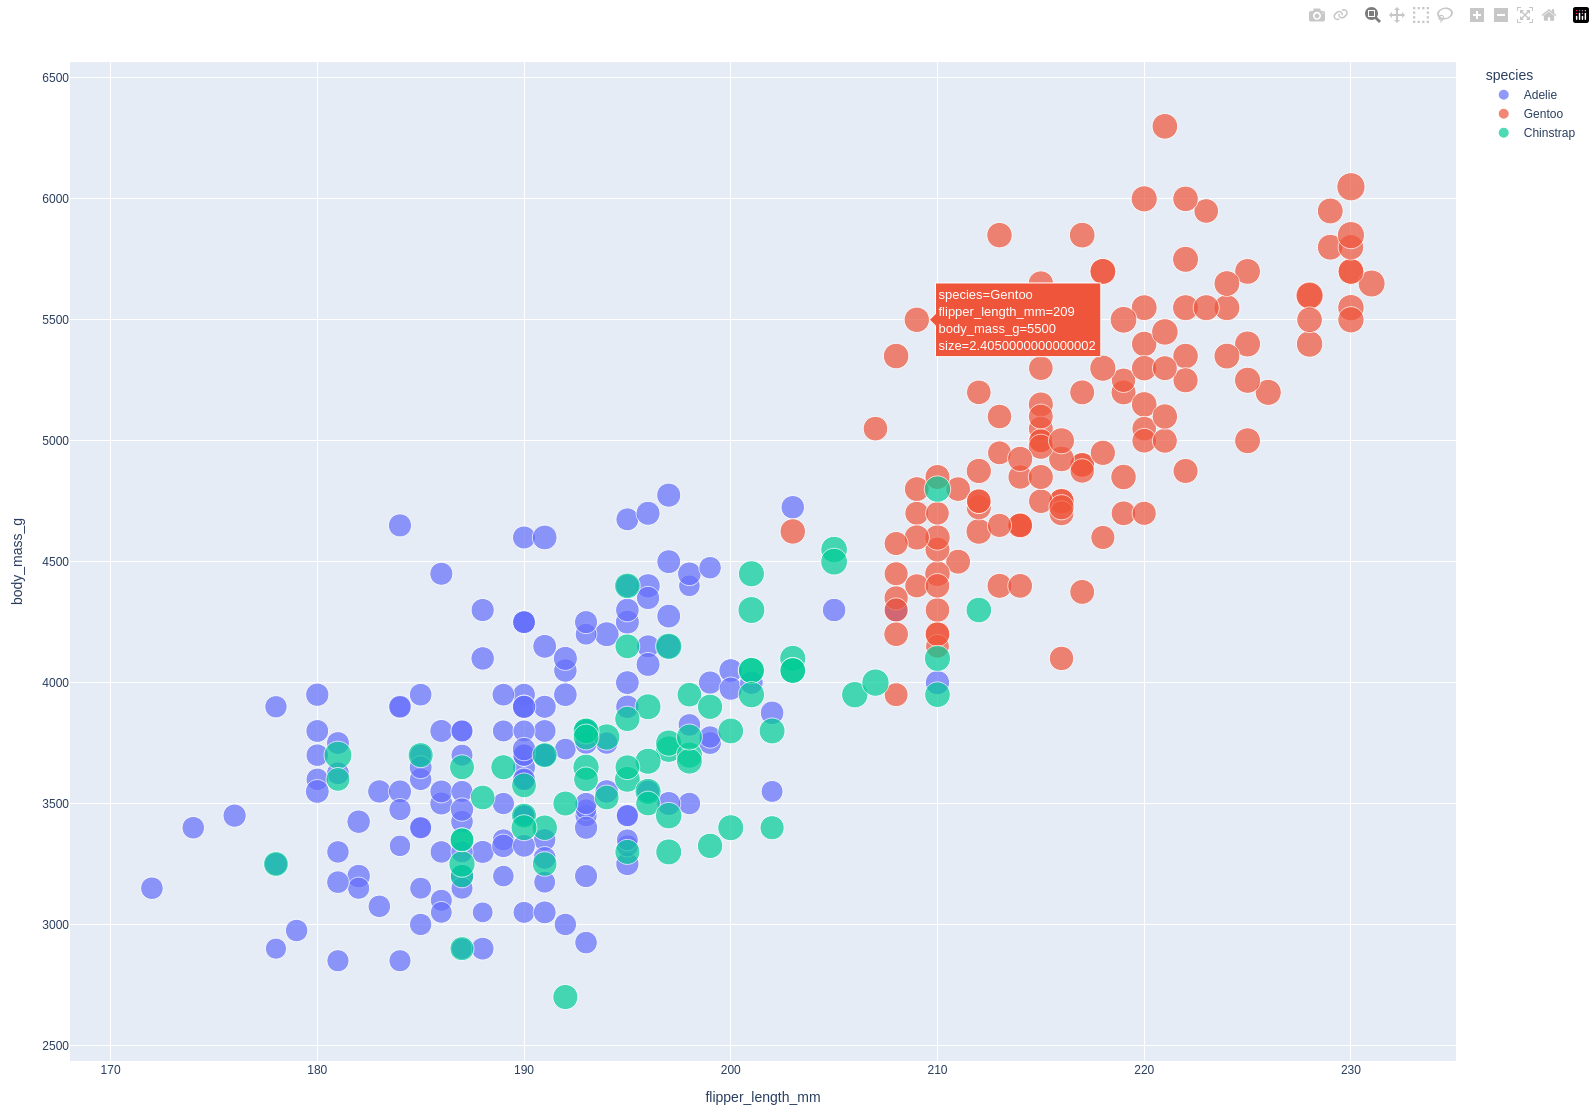
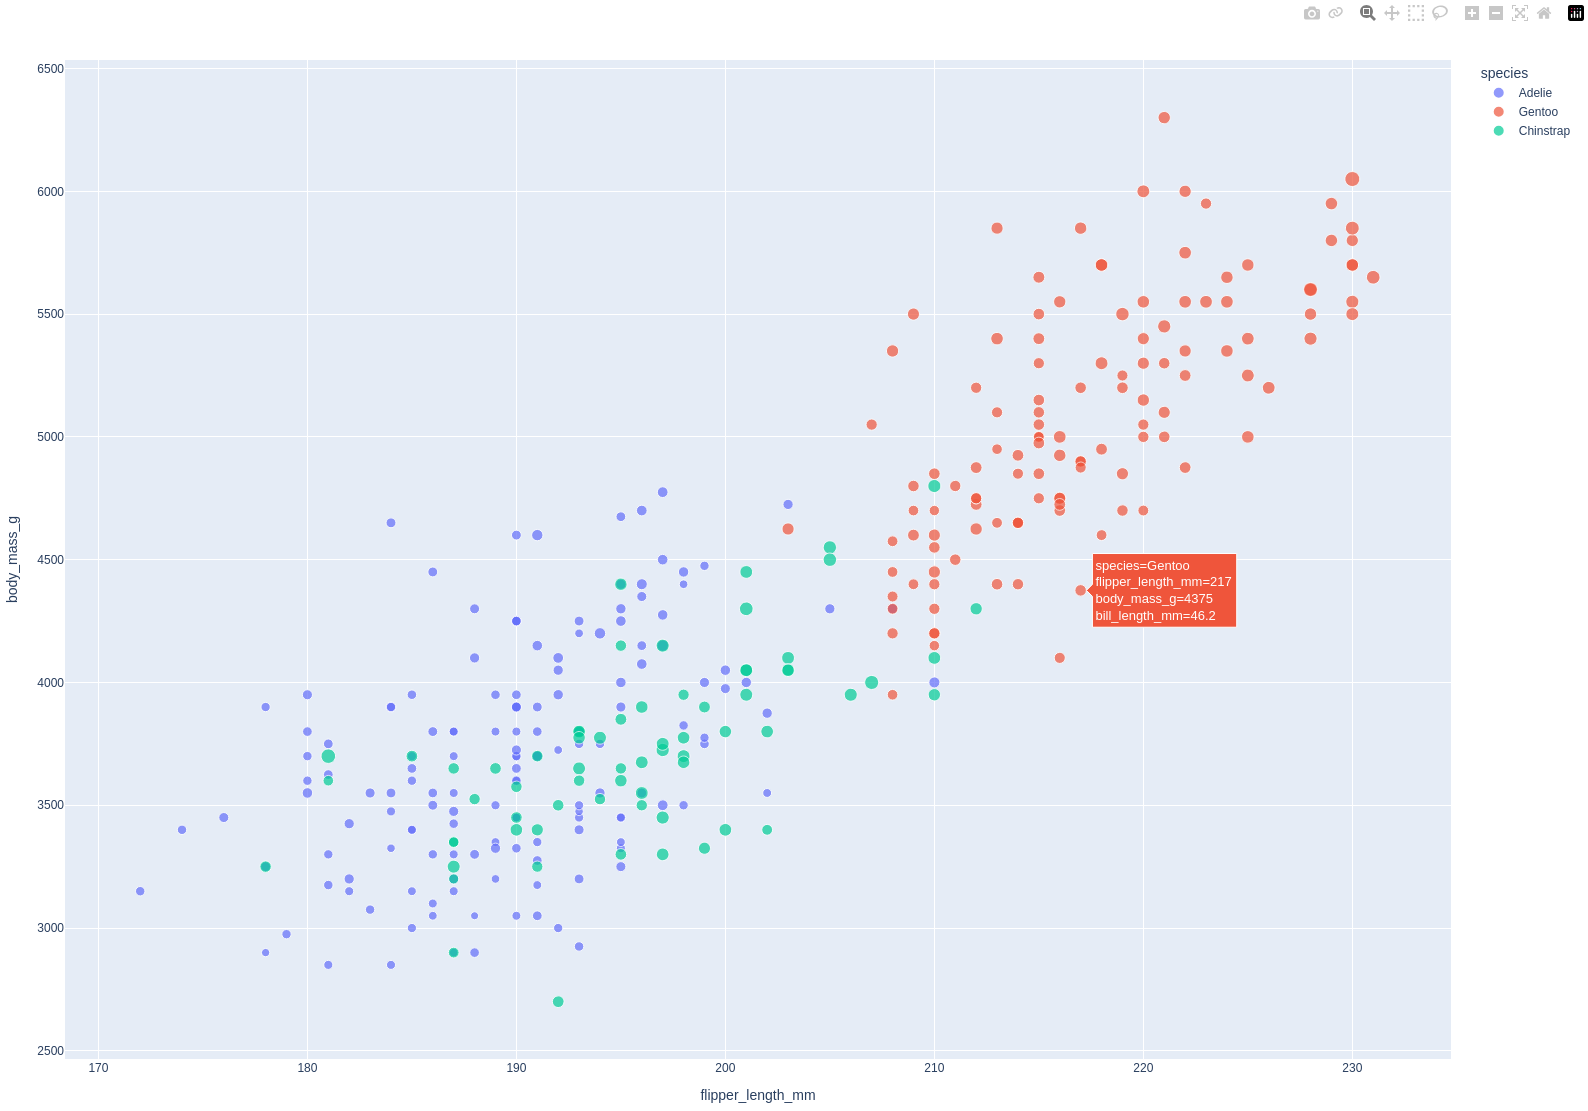
Complete README

diff --git a/README.md b/README.md
@@ -61,3 +61,17 @@ had to manually set the size mode (area to diamter) of the size markers. Even th
 
 ### Design Achievments
 - None, as all graph design features were provided by the library
+
+## DataWrapper
+[View the visualization here](https://datawrapper.dwcdn.net/A7lFx/1/)
+
+![DataWrapper visualization](./img/DataWrapper.png)
+
+DataWrapper is a platform for visualizaing and sharing data. It's intended goal seems to be making it easy for anyone to create visualizations. Notably, the site doesn't have any features for cleaning data, so
+I had to clean it manually and generate a clean file ("penglings_clean.csv").
+
+Technical Achievements
+- None, everything was provided by the tool
+
+Design Achievements
+- None, everything was provided by the tool
